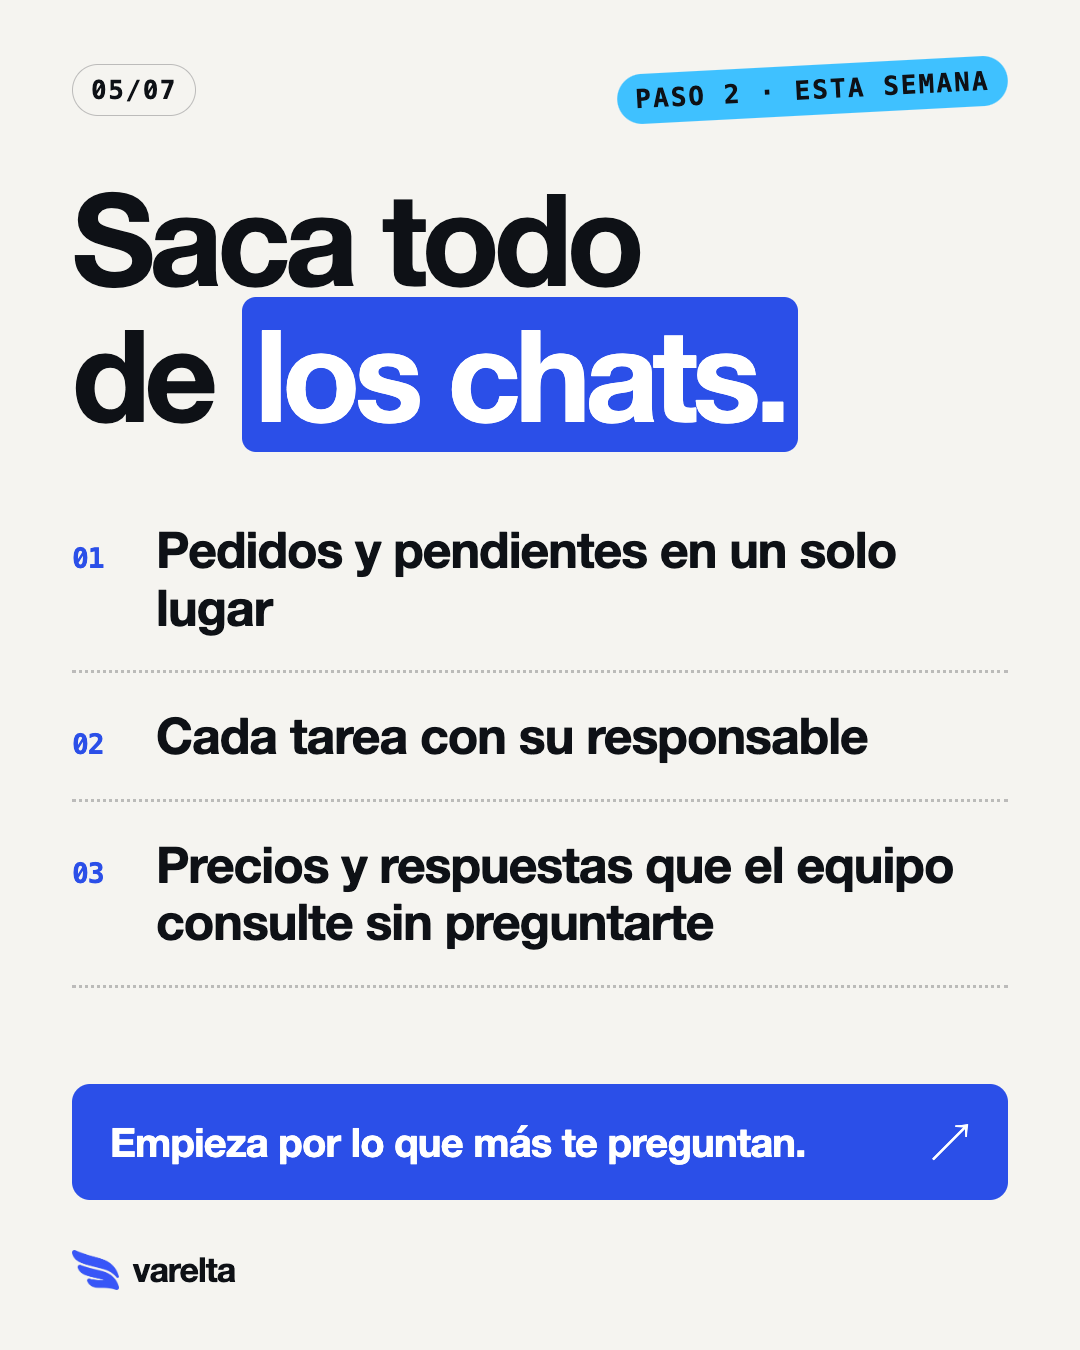
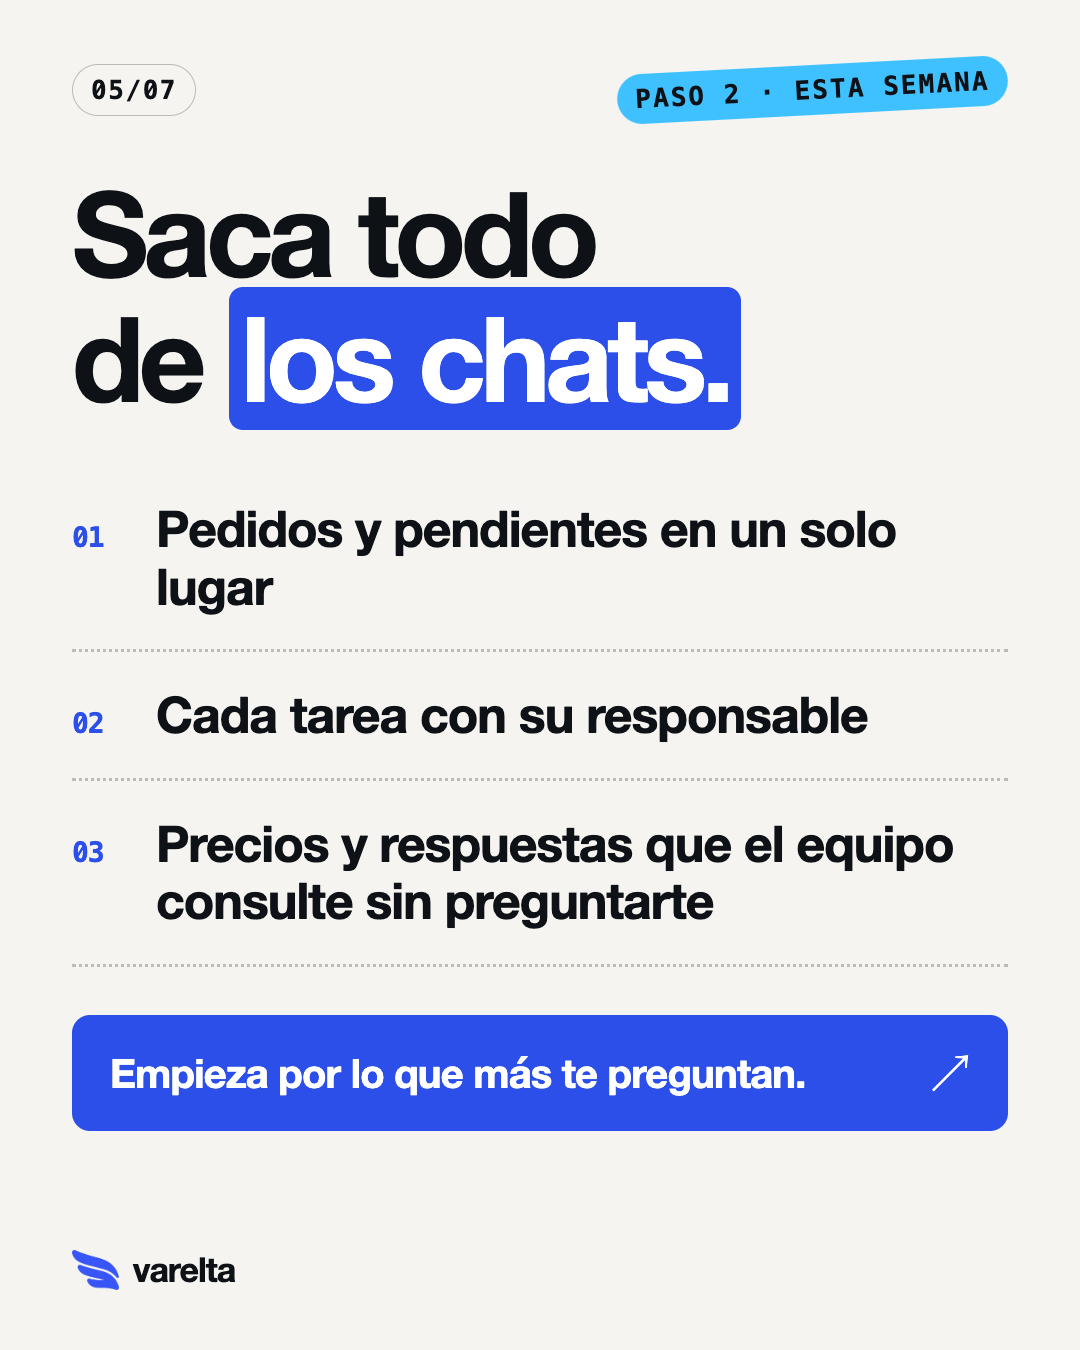
Carrusel de prueba (cotizaciones) y lámina de papel sin encimarse
Claude-Session: https://claude.ai/code/session_015eUJXirdz8qSJvUiN5cmp2

diff --git a/marca/plantilla-carrusel.html b/marca/plantilla-carrusel.html
@@ -31,10 +31,10 @@ p b{font-weight:800;color:#fff}
 /* lámina de papel (rompe el ritmo de fotos) */
 .s.papel{background:var(--papel);color:var(--tinta)}
 .s.papel .num{background:transparent;border-color:rgba(14,17,22,.25);color:var(--tinta)}
-.s.papel h1{font-size:128px}
+.s.papel h1{font-size:118px}
 .s.papel h1{isolation:isolate}
 h1 mark{position:relative;z-index:-1;color:#fff}
-.tip{position:absolute;left:72px;right:72px;bottom:150px;background:var(--azul);color:#fff;border-radius:18px;padding:34px 38px;font-size:40px;font-weight:700;letter-spacing:-.02em;line-height:1.2;display:flex;justify-content:space-between;gap:24px}
+.tip{margin-top:48px;background:var(--azul);color:#fff;border-radius:18px;padding:34px 38px;font-size:40px;font-weight:700;letter-spacing:-.02em;line-height:1.2;display:flex;justify-content:space-between;gap:24px}
 .tip i{font-style:normal}
 .s.papel p{color:var(--gris)}
 .lista{margin-top:46px;display:flex;flex-direction:column}
@@ -59,7 +59,7 @@ document.getElementById('raiz').innerHTML = D.slides.map((s,i) => {
   const logo = s.tipo==='papel' ? D.logo : D.logo;
   return `<section class="${clase}">${fondo}
     <div class="top"><span class="num">${pad(i+1)}/${pad(n)}</span>${s.eye?`<span class="eye">${s.eye}</span>`:''}</div>
-    <div class="txt"><h1 class="${s.m?'m':''}">${s.titulo}</h1>${s.texto?`<p>${s.texto}</p>`:''}${s.nota?`<div class="nota">${s.nota}</div>`:''}${lista}${cta}</div>${tip}
+    <div class="txt"><h1 class="${s.m?'m':''}">${s.titulo}</h1>${s.texto?`<p>${s.texto}</p>`:''}${s.nota?`<div class="nota">${s.nota}</div>`:''}${lista}${tip}${cta}</div>
     <div class="pie"><span class="marca"><img src="${logo}">varelta</span>${i===0?'<span class="desliza">Desliza →</span>':(i===n-1?'<span class="desliza">varelta.com</span>':'')}</div>
   </section>`;
 }).join('');
